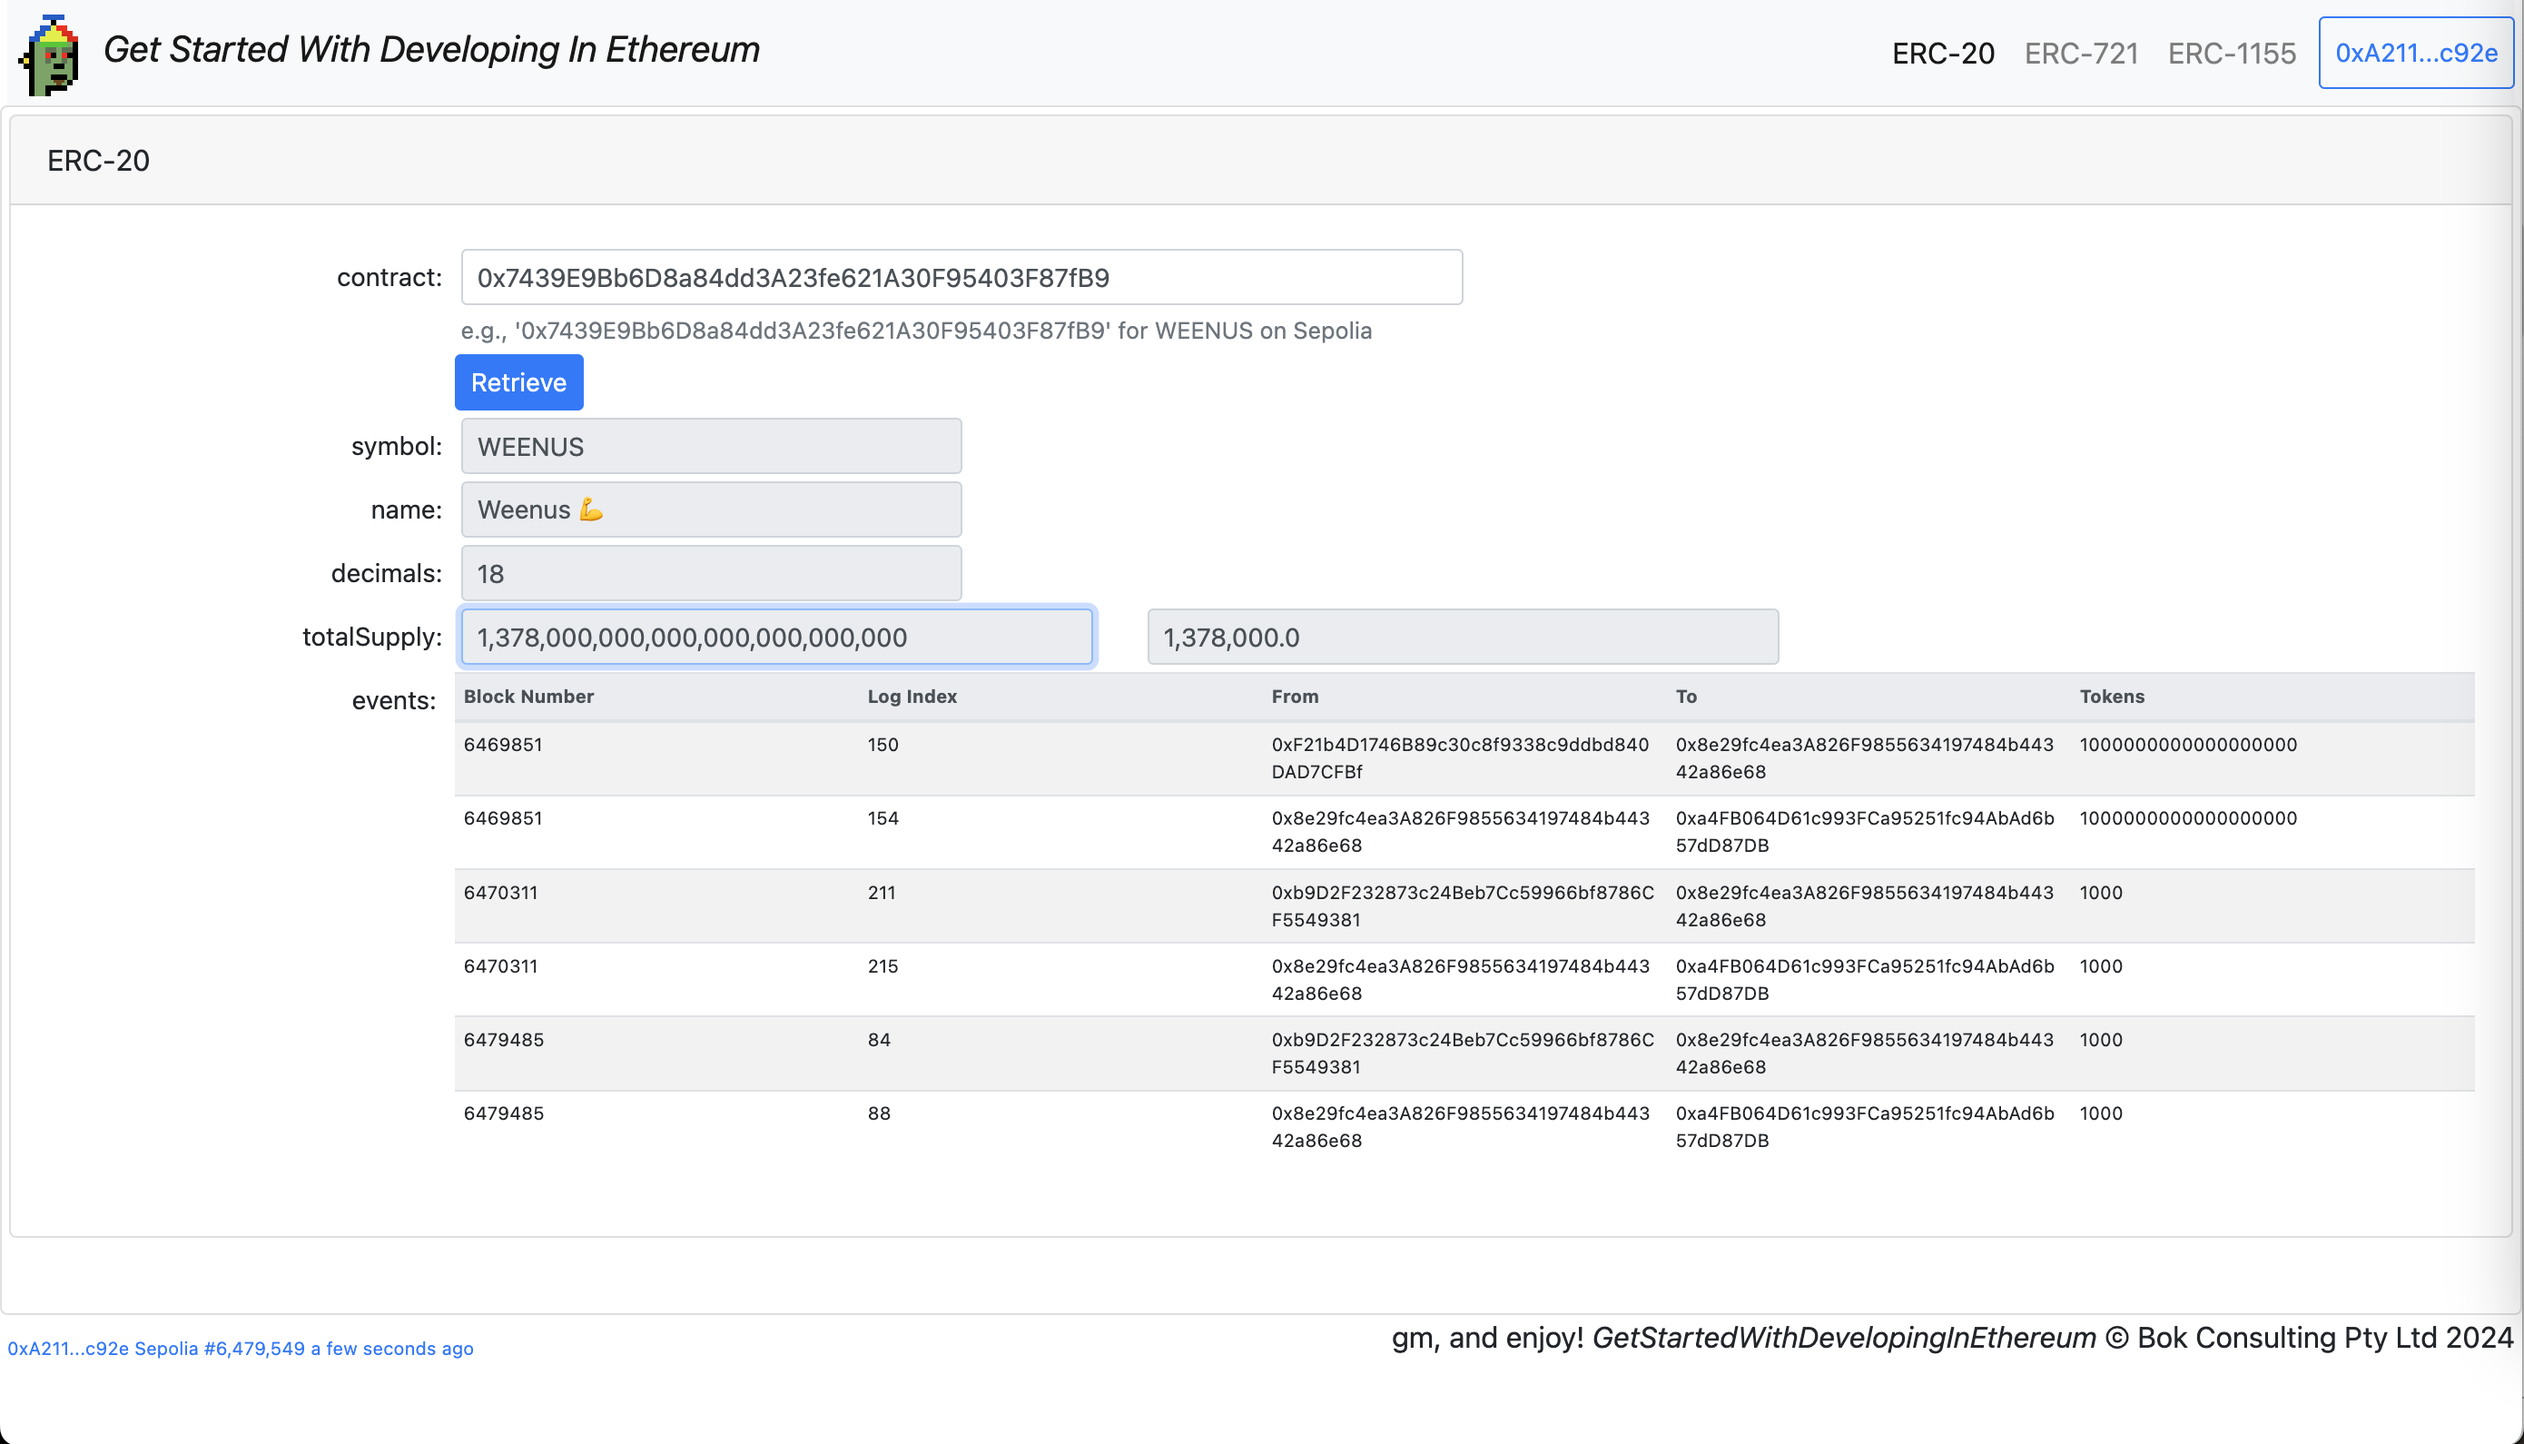
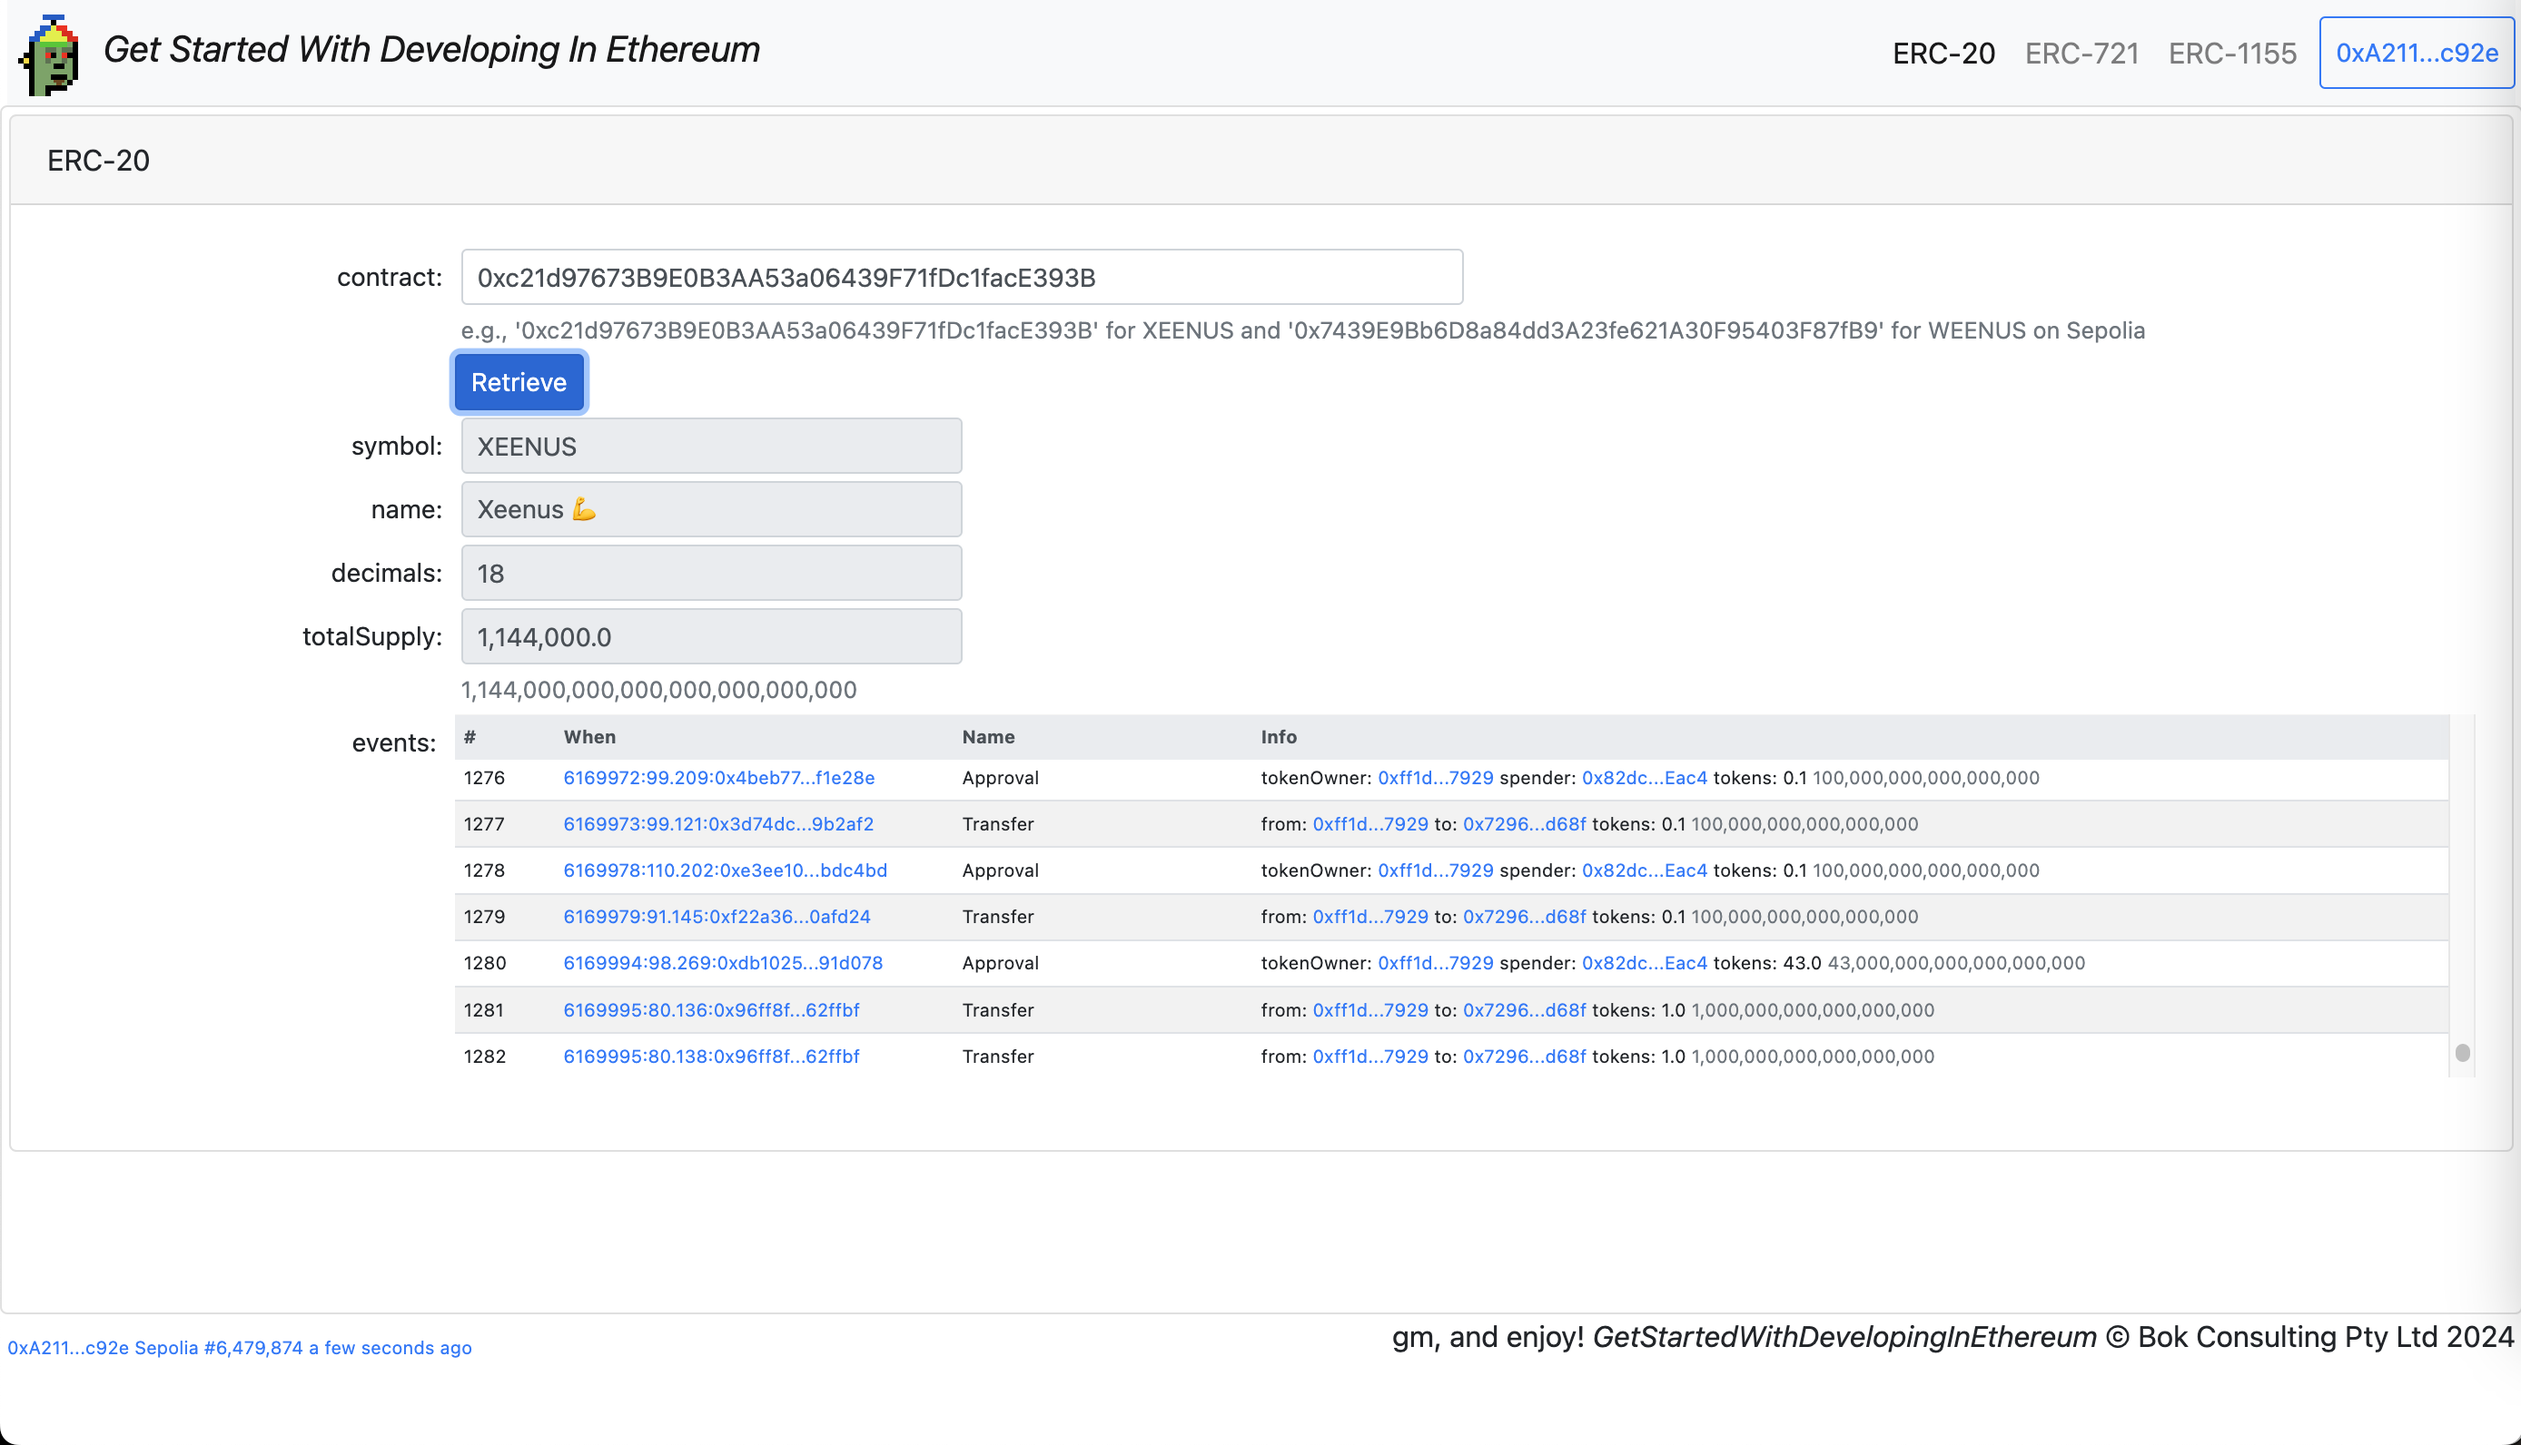
erc-20 wip

diff --git a/docs/index.html b/docs/index.html
@@ -61,7 +61,7 @@
 
           <b-card class="m-0 p-0 border-0" body-class="m-1 p-0">
             <b-card v-if="settings.tabIndex == 0" header="ERC-20" class="m-0 p-0">
-              <b-form-group label="contract:" label-for="erc20-contract" label-size="sm" label-cols-sm="2" label-align-sm="right" description="e.g., '0x7439E9Bb6D8a84dd3A23fe621A30F95403F87fB9' for WEENUS on Sepolia" class="mx-0 my-1 p-0">
+              <b-form-group label="contract:" label-for="erc20-contract" label-size="sm" label-cols-sm="2" label-align-sm="right" description="e.g., '0xc21d97673B9E0B3AA53a06439F71fDc1facE393B' for XEENUS and '0x7439E9Bb6D8a84dd3A23fe621A30F95403F87fB9' for WEENUS on Sepolia" class="mx-0 my-1 p-0">
                 <b-form-input type="text" size="sm" id="erc20-contract" v-model="settings.erc20.contract" @change="saveSettings" class="w-50"></b-form-input>
               </b-form-group>
               <b-form-group label="" label-size="sm" label-cols-sm="2" label-align-sm="right" class="mx-0 my-1 p-0">
@@ -76,19 +76,12 @@
               <b-form-group label="decimals:" label-for="erc20-decimals" label-size="sm" label-cols-sm="2" label-align-sm="right" class="mx-0 my-1 p-0">
                 <b-form-input type="text" size="sm" readonly id="erc20-decimals" :value="erc20.decimals" class="w-25"></b-form-input>
               </b-form-group>
-              <b-form-group label="totalSupply:" label-for="erc20-totalsupply" label-size="sm" label-cols-sm="2" label-align-sm="right" class="mx-0 my-1 p-0">
-                <b-row>
-                  <b-col cols="4">
-                    <b-form-input type="text" size="sm" readonly id="erc20-totalsupply" :value="formatNumber(erc20.totalSupply)"></b-form-input>
-                  </b-col>
-                  <b-col cols="4">
-                    <b-form-input type="text" size="sm" readonly id="erc20-totalsupplydecimals" :value="formatDecimals(erc20.totalSupply, erc20.decimals)"></b-form-input>
-                  </b-col>
-                </b-row>
+              <b-form-group label="totalSupply:" label-for="erc20-totalsupply" label-size="sm" label-cols-sm="2" label-align-sm="right" :description="formatNumber(erc20.totalSupply)" class="mx-0 my-1 p-0">
+                <b-form-input type="text" size="sm" readonly id="erc20-totalsupplydecimals" :value="formatDecimals(erc20.totalSupply, erc20.decimals)" class="w-25"></b-form-input>
               </b-form-group>
               <b-form-group label="events:" label-size="sm" label-cols-sm="2" label-align-sm="right" class="mx-0 my-1 p-0">
                 <font size="-2">
-                  <b-table small fixed striped :fields="erc20EventFields" :items="erc20.events" head-variant="light">
+                  <b-table small fixed striped sticky-header="200px" :fields="erc20EventFields" :items="erc20.events" head-variant="light">
                     <template #cell(number)="data">
                         {{ parseInt(data.index) + 1 }}
                     </template>
@@ -108,7 +101,10 @@
                           {{ data.item.to.substring(0, 6) + '...' + data.item.to.slice(-4) }}
                         </b-link>
                         tokens:
-                        {{ data.item.tokens + ' = ' + formatDecimals(data.item.tokens, data.item.decimals) + ' ' + erc20.symbol }}
+                        {{ formatDecimals(data.item.tokens, data.item.decimals) }}
+                        <span class="text-muted">
+                          {{ formatNumber(data.item.tokens) }}
+                        </span>
                       </div>
                       <div v-else-if="data.item.name == 'Approval'">
                         tokenOwner:
@@ -120,7 +116,10 @@
                           {{ data.item.spender.substring(0, 6) + '...' + data.item.spender.slice(-4) }}
                         </b-link>
                         tokens:
-                        {{ data.item.tokens + ' = ' + formatDecimals(data.item.tokens, data.item.decimals) + ' ' + erc20.symbol }}
+                        {{ formatDecimals(data.item.tokens, data.item.decimals) }}
+                        <span class="text-muted">
+                          {{ formatNumber(data.item.tokens) }}
+                        </span>
                       </div>
                     </template>
                   </b-table>

diff --git a/README.md b/README.md
@@ -12,6 +12,8 @@ Materials for [ETHSydney August - Get started with developing in Ethereum](https
 
 [https://bokkypoobah.github.io/GetStartedWithDevelopingInEthereum/](https://bokkypoobah.github.io/GetStartedWithDevelopingInEthereum/)
 
+### ERC-20 Explorer
+
 <kbd><img src="images/Explore-ERC-20.png" /></kbd>
 
 <br />
